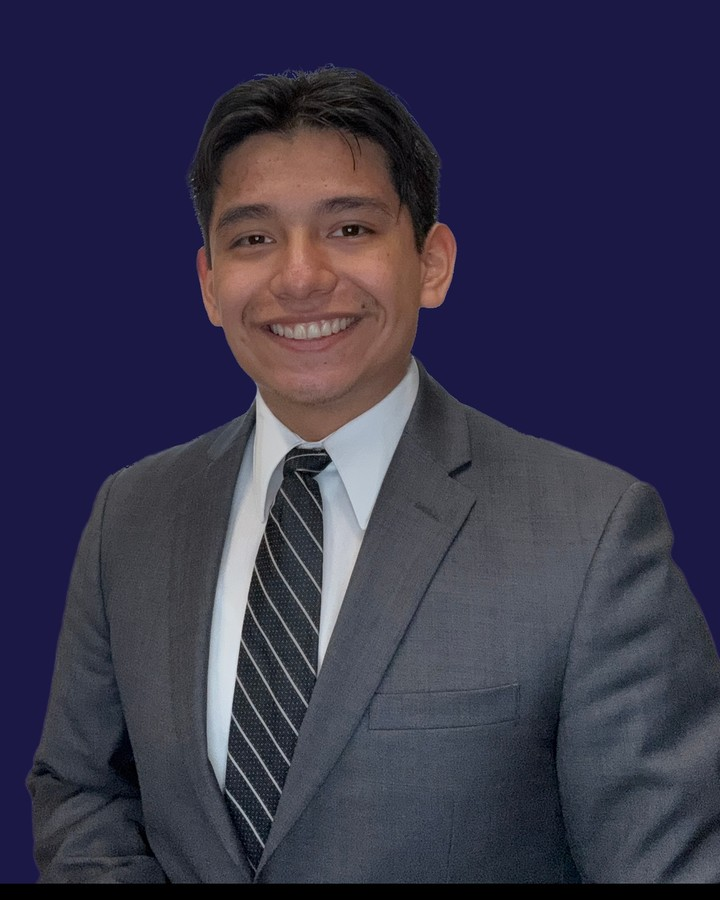
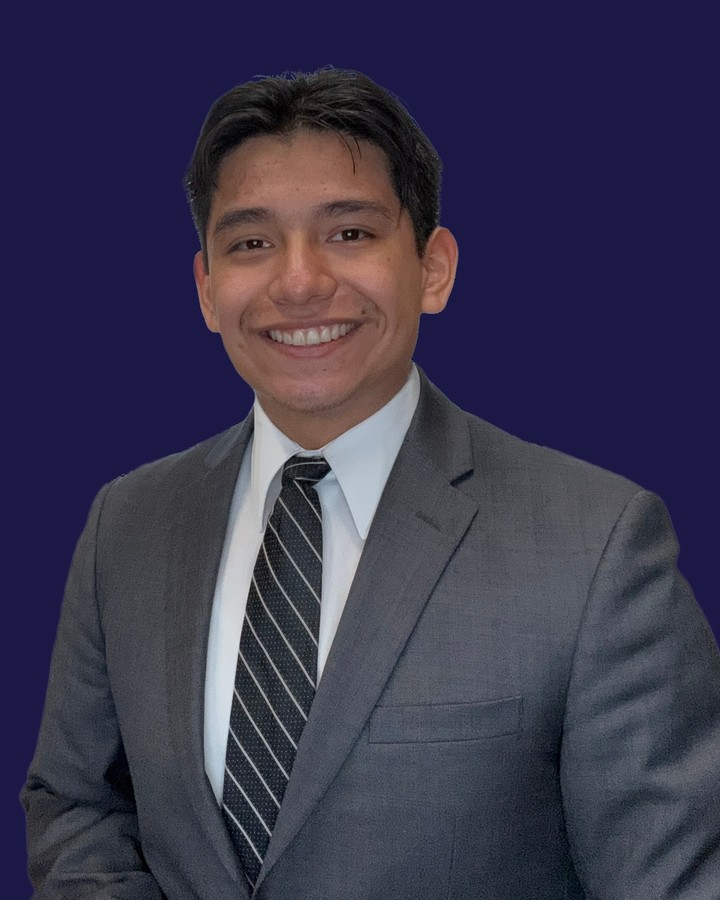
Add files via upload

diff --git a/index.html b/index.html
@@ -161,6 +161,7 @@ section{padding:96px 0}
 .contact h2{font-stretch:110%;font-weight:800;font-size:clamp(36px,5vw,60px);letter-spacing:-.025em}
 .contact p{color:var(--lav)}
 .contact a{color:var(--white)}
+form a{color:var(--indigo)!important;font-weight:600}
 .phone{display:block;font-family:'Archivo',sans-serif;font-stretch:112%;font-weight:800;font-size:clamp(30px,3.6vw,40px);text-decoration:none;color:var(--go)!important;margin:18px 0 10px}
 form{background:var(--white);color:var(--black);border-radius:6px;padding:32px;display:grid;gap:16px}
 form h3{font-size:22px;font-weight:800}
@@ -184,9 +185,9 @@ footer a{color:var(--white)}
 @media (max-width:760px){.bar{display:flex}.nav nav a.link,.nav nav .btn{display:none}.float{display:none!important}}
 
 /* floating book-now button (desktop): shows after the hero, hides at the form */
-.float{position:fixed;right:24px;bottom:24px;z-index:25;display:flex;align-items:center;gap:10px;min-height:58px;padding:0 26px 0 20px;border-radius:999px;background:var(--go);color:#000;text-decoration:none;font-family:'Archivo',sans-serif;font-weight:800;font-size:17px;box-shadow:0 10px 30px rgba(18,15,43,.35);opacity:0;transform:translateY(16px);pointer-events:none;transition:opacity .25s ease,transform .25s ease,background .15s}
+.float{position:fixed;right:24px;bottom:24px;z-index:25;display:flex;align-items:center;gap:10px;min-height:58px;padding:0 26px 0 20px;border-radius:999px;background:var(--go);color:#000;text-decoration:none;font-family:'Archivo',sans-serif;font-weight:800;font-size:17px;box-shadow:0 10px 30px rgba(18,15,43,.35);opacity:0;transform:translateY(16px);pointer-events:none;visibility:hidden;transition:opacity .25s ease,transform .25s ease,background .15s,visibility .25s}
 .float:hover{background:var(--go-hover)}
-.float.show{opacity:1;transform:none;pointer-events:auto}
+.float.show{opacity:1;transform:none;pointer-events:auto;visibility:visible}
 .float .dot{width:10px;height:10px;border-radius:50%;background:#1a7f37;box-shadow:0 0 0 0 rgba(26,127,55,.6)}
 @media (prefers-reduced-motion:no-preference){.float .dot{animation:ping 2s infinite}}
 @keyframes ping{0%{box-shadow:0 0 0 0 rgba(26,127,55,.55)}70%{box-shadow:0 0 0 9px rgba(26,127,55,0)}100%{box-shadow:0 0 0 0 rgba(26,127,55,0)}}
@@ -397,7 +398,7 @@ footer a{color:var(--white)}
           </select>
         </label>
         <label>Anything I should know? <textarea name="message" rows="3"></textarea></label>
-        <label class="consent"><input type="checkbox" name="consent" value="yes" required> <span>I agree that John Campoverde may contact me by call, text or email about buying or selling a home. Message and data rates may apply. Reply STOP to opt out.</span></label>
+        <label class="consent"><input type="checkbox" name="consent" value="yes" required> <span>I agree that John Campoverde may contact me by call, text or email about buying or selling a home. Message and data rates may apply. Reply STOP to opt out. See my <a href="privacy.html">privacy policy</a>.</span></label>
         <button class="btn btn-go" type="submit">Book my appointment</button>
       </form>
     </div>
@@ -418,6 +419,8 @@ footer a{color:var(--white)}
       <!-- TREC-required links: iabs.pdf and consumer-protection-notice.pdf live in this folder. -->
       <a href="iabs.pdf" target="_blank" rel="noopener">Texas Real Estate Commission Information About Brokerage Services</a>
       <a href="consumer-protection-notice.pdf" target="_blank" rel="noopener">Texas Real Estate Commission Consumer Protection Notice</a>
+      <a href="privacy.html">Privacy and cookies</a>
+      <a href="accessibility.html">Accessibility</a>
     </div>
     <p class="legal">Information deemed reliable but not guaranteed. © 2026 John Campoverde, ClearView Realty LLC.</p>
   </div>

diff --git a/privacy.html b/privacy.html
@@ -1,0 +1,52 @@
+<!doctype html>
+<html lang="en">
+<head>
+<meta charset="utf-8">
+<meta name="viewport" content="width=device-width, initial-scale=1">
+<title>Privacy and cookies | John Campoverde, ClearView Realty LLC</title>
+<link href="https://fonts.googleapis.com/css2?family=Archivo:wdth,wght@100..125,800&family=IBM+Plex+Sans:wght@400;600&display=swap" rel="stylesheet">
+<style>
+body{margin:0;font-family:'IBM Plex Sans',system-ui,sans-serif;font-size:18px;line-height:1.65;color:#000;background:#fff}
+header{background:#120F2B;padding:20px 24px}
+header a{color:#fff;text-decoration:none;font-family:'Archivo',sans-serif;font-stretch:118%;font-weight:800;font-size:19px}
+main{max-width:760px;margin:0 auto;padding:56px 24px 80px}
+h1{font-family:'Archivo',sans-serif;font-stretch:110%;font-weight:800;font-size:clamp(34px,5vw,48px);line-height:1.05;letter-spacing:-.02em;margin:0 0 8px}
+h2{font-family:'Archivo',sans-serif;font-weight:800;font-size:22px;margin:40px 0 8px}
+p,li{color:#2b2940}
+.date{color:#55526b;font-size:15px;margin:0 0 32px}
+a{color:#1E1A45;text-underline-offset:3px}
+:focus-visible{outline:3px solid #f5b300;outline-offset:3px}
+footer{background:#120F2B;color:#c9c6e0;padding:32px 24px;font-size:15px;text-align:center}
+footer a{color:#fff}
+</style>
+</head>
+<body>
+<header><a href="/">JOHN CAMPOVERDE</a></header>
+<main>
+<h1>Privacy and cookies</h1>
+<p class="date">Last updated October 27, 2026</p>
+<p>This website is run by John Campoverde, a REALTOR&reg; sponsored by ClearView Realty LLC. This page explains what information the site collects and how it is used.</p>
+
+<h2>Cookies</h2>
+<p><strong>This website does not use cookies.</strong> There is no advertising tracking, no analytics tracking and no third-party marketing pixels. Because no cookies are set, there is nothing to opt out of. If that ever changes, this page will be updated and you will be asked for your consent before any non-essential cookies are used.</p>
+<p>Fonts on this site load from Google Fonts. When your browser downloads them, Google receives standard technical information such as your IP address. See <a href="https://policies.google.com/privacy">Google's privacy policy</a>.</p>
+
+<h2>Information you give me</h2>
+<p>When you fill out the appointment form, I collect what you enter: your name, phone number, email (optional), your goal, your preferred day and time, your timeline and any message. The form is processed and stored by my website host, Netlify.</p>
+
+<h2>How I use it</h2>
+<ul>
+<li>To contact you about the appointment you requested and about buying or selling a home.</li>
+<li>To keep a record of our conversations in my brokerage's customer relationship system.</li>
+</ul>
+<p>I do not sell your information. I do not share it with anyone outside my brokerage except when you ask me to (for example, to connect you with a lender) or when the law requires it.</p>
+
+<h2>Calls and text messages</h2>
+<p>If you check the consent box, you agree that I may contact you by call, text or email. Message and data rates may apply. Reply <strong>STOP</strong> to any text to opt out, or tell me by phone or email. Consent is not a condition of working with me.</p>
+
+<h2>Your choices</h2>
+<p>You can ask me to see, correct or delete the information you sent through this site at any time. Call or text <a href="tel:+19155255251">(915) 525-5251</a> or email <a href="mailto:jac.realty.elp@gmail.com">jac.realty.elp@gmail.com</a>.</p>
+</main>
+<footer>John Campoverde, REALTOR&reg;, ClearView Realty LLC, 12247 Rojas Dr, El Paso, TX. <a href="tel:+19155255251">(915) 525-5251</a>. Equal Housing Opportunity.<br><a href="/">Back to home</a></footer>
+</body>
+</html>

diff --git a/accessibility.html b/accessibility.html
@@ -1,0 +1,47 @@
+<!doctype html>
+<html lang="en">
+<head>
+<meta charset="utf-8">
+<meta name="viewport" content="width=device-width, initial-scale=1">
+<title>Accessibility | John Campoverde, ClearView Realty LLC</title>
+<link href="https://fonts.googleapis.com/css2?family=Archivo:wdth,wght@100..125,800&family=IBM+Plex+Sans:wght@400;600&display=swap" rel="stylesheet">
+<style>
+body{margin:0;font-family:'IBM Plex Sans',system-ui,sans-serif;font-size:18px;line-height:1.65;color:#000;background:#fff}
+header{background:#120F2B;padding:20px 24px}
+header a{color:#fff;text-decoration:none;font-family:'Archivo',sans-serif;font-stretch:118%;font-weight:800;font-size:19px}
+main{max-width:760px;margin:0 auto;padding:56px 24px 80px}
+h1{font-family:'Archivo',sans-serif;font-stretch:110%;font-weight:800;font-size:clamp(34px,5vw,48px);line-height:1.05;letter-spacing:-.02em;margin:0 0 8px}
+h2{font-family:'Archivo',sans-serif;font-weight:800;font-size:22px;margin:40px 0 8px}
+p,li{color:#2b2940}
+.date{color:#55526b;font-size:15px;margin:0 0 32px}
+a{color:#1E1A45;text-underline-offset:3px}
+:focus-visible{outline:3px solid #f5b300;outline-offset:3px}
+footer{background:#120F2B;color:#c9c6e0;padding:32px 24px;font-size:15px;text-align:center}
+footer a{color:#fff}
+</style>
+</head>
+<body>
+<header><a href="/">JOHN CAMPOVERDE</a></header>
+<main>
+<h1>Accessibility</h1>
+<p class="date">Last updated October 27, 2026</p>
+<p>I want everyone to be able to use this website, including people who use screen readers, keyboard navigation, magnification or other assistive technology.</p>
+
+<h2>What this site does</h2>
+<ul>
+<li>Aims to meet the Web Content Accessibility Guidelines (WCAG) 2.1, Level AA.</li>
+<li>Text and buttons meet WCAG color contrast requirements.</li>
+<li>Every page can be used with a keyboard, with a visible focus outline and a "Skip to content" link.</li>
+<li>Images and charts have text descriptions for screen readers.</li>
+<li>Every form field has a label.</li>
+<li>Animations turn off automatically if your device is set to reduce motion.</li>
+<li>Pages work when zoomed to 200% and on phones.</li>
+</ul>
+
+<h2>Need help or found a problem?</h2>
+<p>If any part of this site is hard to use, please tell me and I will fix it. I can also send you any information on this site in another format, or go over it by phone.</p>
+<p>Call or text <a href="tel:+19155255251">(915) 525-5251</a> or email <a href="mailto:jac.realty.elp@gmail.com">jac.realty.elp@gmail.com</a>. I aim to respond within one business day.</p>
+</main>
+<footer>John Campoverde, REALTOR&reg;, ClearView Realty LLC, 12247 Rojas Dr, El Paso, TX. <a href="tel:+19155255251">(915) 525-5251</a>. Equal Housing Opportunity.<br><a href="/">Back to home</a></footer>
+</body>
+</html>
